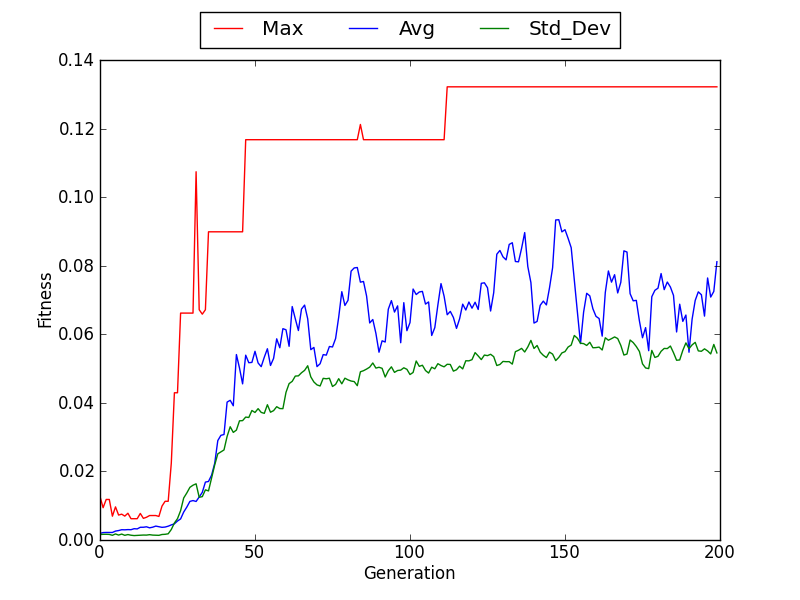
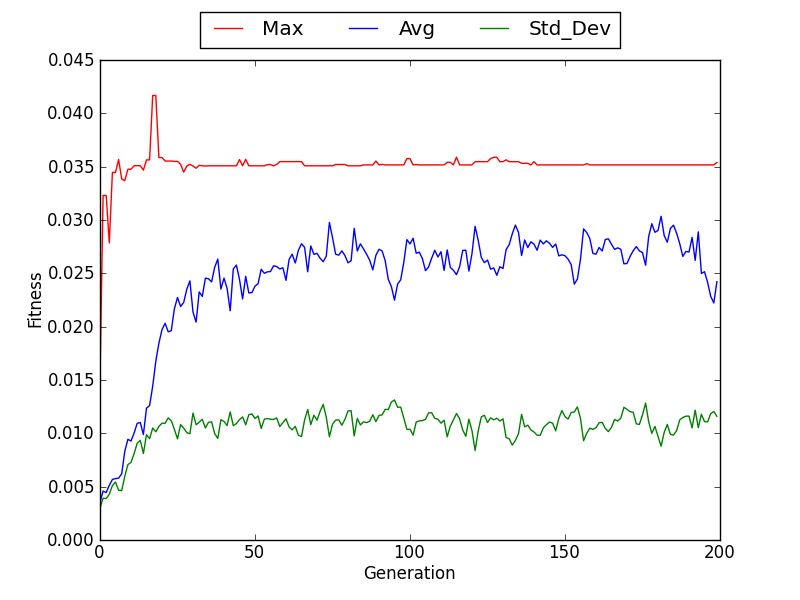
Backup

diff --git a/project2/code/izhikevich.py b/project2/code/izhikevich.py
@@ -23,7 +23,7 @@ param_range = {
 def get_target_data(file_num):
 
     filepath = 'data/izzy-train%s.dat' % file_num
-
+    print filepath
     with open(filepath, 'r') as f:
         return [float(i) for i in f.readline().strip().split(' ')]
 
@@ -37,7 +37,6 @@ class SpikingNeuron(Indevidual):
         # Generate new genotype if not defined
         if value is None:
             binary_helper = '{:0'+str(gene_size)+'b}'
-
             # Create the genotype. A concatonated string of all genes
             value = ''.join([binary_helper.format(random.randint(0, self.max_value)) 
                 for i in range(std_values['num_params'])])
@@ -87,6 +86,7 @@ class SpikingNeuron(Indevidual):
         """
         # Collect all denary values from genotype, categorized by 5 bits interval
         params = [int(self.value[i:i+self.gene_size], 2) for i in range(0, len(self.value), self.gene_size)]
+        
 
         # Need to encode values to fit to given ranges/intervals
         a, b, c, d, k = self.fit_range (params)
@@ -101,8 +101,9 @@ class SpikingNeuron(Indevidual):
 
         for t in range(std_values['timesteps']):
             tmp = v
-            v += ( (k * pow(v, 2.0)) + (5*v) + 140 - u + std_values['I'])/std_values['tau']
-            u += (a/float(std_values['tau'])) * ((b*tmp) - u)
+
+            v += ( (k * v * v) + (5*v) + 140 - u + std_values['I'])/std_values['tau']
+            u += (a * ((b*tmp) - u)) / float(std_values['tau'])
 
             spike_train.append(v)
 
@@ -142,30 +143,30 @@ class SDM(object):
         spike_times = []
         num_spikes = len(train)
 
-        
         i = j = (k - 1) // 2
         while (i < len(train) - j):
             if train[i] > T and train[i] == max(train[i-j:i+j+1]):
                 spike_times.append(i)
-                i += j # Jump to next window or?
+                #i += j # Jump to next window or?
             i += 1
 
         return spike_times
         """
 
-        for i in range(0, num_spikes-k):
+        for i in range(2, num_spikes-2):
             # Move through windows of size k. 
             # Check if a spike fits constraints a, b and c from 2. in comments
-            middle = (k-1)//2 + i # middle index
+            middle = ( k // 2 ) + i # middle index
             if middle > num_spikes:
                 continue
 
-            if train[middle] > T and train[middle] == max(train[i:i+k]):
+            if train[middle] > T and train[middle] == max(train[i:i+middle]):
                 spike_times.append(i)
-                i += k
+                i += middle
 
         return spike_times
         """
+
 
 
     @staticmethod
@@ -188,7 +189,9 @@ class SDM(object):
 
             d_st(T^a,T^b) = 1/N * (sum(|t_i^a − t_i^b|^p, 0, N-1))^1/p
         """
+
         spikes1, spikes2 = SDM.compute_spike_times(train1), SDM.compute_spike_times(train2)
+
 
         if not spikes1:
             return 0
@@ -200,11 +203,12 @@ class SDM(object):
         if penalty:
             tmp += SDM.difference_penalty(spikes1, spikes2, train1)
 
-        distance = math.sqrt(tmp) / N
+        dist = pow(tmp, (1.0/p)) / float(N)
         #print distance
         #print "Target: %s \n Spikes1: %s " % (spikes2, spikes1)
         # print "Target Train (%s): %s \n Train1 (%s): %s " % (len(train2), train2, len(train1), train1)
-        return 1.0/distance
+
+        return 1.0/dist
 
 
     @staticmethod
@@ -221,7 +225,6 @@ class SDM(object):
 
         N = min(len(spikes1), len(spikes2))
 
-
         if N < 2:
             return 0
 
@@ -231,7 +234,12 @@ class SDM(object):
         if penalty:
             tmp += SDM.difference_penalty(spikes1, spikes2, train1)
 
-        return 1.0/(pow(tmp, (1.0/p))/float((1.0/(N-1))))
+        dist = (pow(tmp, (1.0/p))/float((1.0/(N-1))))
+
+        if dist == 0.0:
+            return 1.0
+
+        return 1.0/dist
 
 
     @staticmethod
@@ -271,9 +279,10 @@ class SpikeMutation(Mutation):
 
         #print "New Gene %s " % new_gene
         g1.value = (g1.value[:s] + new_gene + g1.value[s+g1.gene_size:])
+        g1.phenotype = None
 
 
-def create_data(gene_size, metric_fn, target, penalty = True):
+def create_data(gene_size, metric_fn, target, penalty = False):
     """
         A closure solution to pass arguments in the inner function.
         This way we can initiate the Indevidual subclass with 
@@ -290,9 +299,9 @@ def create_data(gene_size, metric_fn, target, penalty = True):
 class SpikingNeuronPlotter(Plotter):
 
     def update (self, generation, population):
-
-        self.population = population.children[:] + population.adults[:]
-        self.population.sort(key=attrgetter('fitness'), reverse=True)
+        pop = population.children[:] + population.adults[:]
+        pop.sort(key=attrgetter('fitness'), reverse=True)
+        self.best = copy.deepcopy(pop[0])
 
 
         super(SpikingNeuronPlotter, self).update(generation, population)
@@ -301,7 +310,7 @@ class SpikingNeuronPlotter(Plotter):
         fig = plt.figure()
         ax = fig.add_subplot(111)
 
-        best_result = self.population[0]
+        best_result = self.best
         spike_train = best_result.phenotype
 
 
@@ -312,7 +321,7 @@ class SpikingNeuronPlotter(Plotter):
 
         print "Best result: a: %s, d: %s, c: %s, d: %s, k: %s" % (a, b, c, d, k)
 
-        x_axis = list(range(len(spike_train)));
+        x_axis = list(range(len(spike_train)))
         ax.plot(list(range(len(spike_train))), spike_train, 'r', label="Act") 
         plt.xlabel('Time(ms)')
         plt.ylabel('Activation-Level(mV)')
@@ -327,21 +336,22 @@ std_values = {
     'output_file': 'spiking',
     'do_plot': True,
     'pop_size':  100,
-    'mutation_probability': 0.25,
+    'mutation_probability': 0.15,
     'birth_probability': 1.0,
     'gene_size': 7, # The bit size for each gene (parameter)
     'generations': 200,
     'protocol': 'FullReplacement',
     'mechanism': 'Tournament',
     'reproduction': 'BinaryOnePointCrossover',
-    'elitism': 0.04,
+    'elitism': 0.05,
     'truncation': 0.05,
     'tau': 10.0,
     'I': 10.0,
     'timesteps': 1000,
     'spike_threshold': 35, # mV (milli Volts)
     'num_params': 5, # The number of parameters: a, b, c, d, k
-    'metric_fn': SDM.spike_time_distance_metric # The number of parameters: a, b, c, d, k
+    'metric_fn': SDM.spike_time_distance_metric, # The number of parameters: a, b, c, d, k
+    'penalty': True # The number of parameters: a, b, c, d, k
 }
 
 
@@ -469,15 +479,13 @@ if __name__ == "__main__":
 
 
     args = parser.parse_args()
-    output_size = args.pop_size # - int(args.pop_size * 0.05)
+    output_size = args.pop_size - int(args.pop_size * 0.05)
 
     print args
 
+    target = get_target_data(1)
 
-    target_spikes = get_target_data()
-    target = target_spikes[0];
-
-    create_objects = create_data(args.gene_size, args.metric_fn, target)
+    create_objects = create_data(args.gene_size, args.metric_fn, target, std_values['penalty'])
     population = Population(args.pop_size, create_objects)
 
     adult_selection = SelectionStrategy(output_size, str_to_class(args.protocol))

diff --git a/project2/code/lib/EA.py b/project2/code/lib/EA.py
@@ -52,9 +52,9 @@ class EA:
             return
 
         parents = self.population.parents[:]
-        for i in range(0, len(parents)-1):
+        for i in range(0, len(parents)):
             if i % 2 == 1:
-                child1, child2 = parents[i-1], parents[i]
+                child1, child2 = copy.deepcopy(parents[i-1]), copy.deepcopy(parents[i])
 
                 if self.reproduction.birth_probability > random.random():
                     # print "Parents: \n %s \n %s" % (child1.value, child2.value)
@@ -62,8 +62,8 @@ class EA:
                     # print "Kids: \n %s \n %s" % (child1.value, child2.value)
 
 
-                self.population.children.append(copy.deepcopy(child1))
-                self.population.children.append(copy.deepcopy(child2))
+                self.population.children.append(child1)
+                self.population.children.append(child2)
 
 
     def mutate(self):
@@ -110,15 +110,16 @@ class EA:
             # Adult selection
             self.adult_select()
 
+            # print "PRE ADULTS"
             # Parent selection
             self.parent_select()
-
 
             # Now the parents-attribute in the Population should
             # be filled and ready for reproduction.
 
             # Reproduction
             self.birth()
+
             self.mutate()
 
             # Intitiate Jean-Luc Picard; The Next Generation

diff --git a/project2/code/lib/Selection.py b/project2/code/lib/Selection.py
@@ -183,6 +183,7 @@ class SelectionStrategy(object):
 
         # Check if we have protocol defined for the strategy
         if self.protocol_name is not None:
+            orig_size = len(population.children)
             if self.protocol is None:
                 self.protocol = self.protocol_name(self.output_size, population)
 
@@ -190,7 +191,7 @@ class SelectionStrategy(object):
             self.protocol.do()
 
             # Need to check if we have enough indeviduals
-            if len(population.adults) < self.size:
+            if len(population.adults) < orig_size:
                 population.adults.sort(key=attrgetter('fitness_value'), reverse=True)
                 for i in range(self.size - len(population.adults)):
                     population.adults.append(copy.deepcopy(population.adults[i % len(population.adults)]))
@@ -212,7 +213,10 @@ class SelectionStrategy(object):
                 E = self.elitism
                 if E < 1: # a fraction
                     E = int(len(new_population)*E)
-                population.children.extend(copy.deepcopy(new_population[:E]))
+
+                #for i in range(E, len(new_population)):
+                    population.children.extend(copy.deepcopy(new_population[:E]))
+
                 self.size -= E
 
             # Truncation - Removal of parents as parents. 

diff --git a/project2/docs/deliverables_2.tex b/project2/docs/deliverables_2.tex
@@ -28,6 +28,7 @@ std_values = {
 \end{lstlisting}
 
 \subsection{Spike Time Distance Metric}
+Best result: a: 0.0417401574803, d: 0.169842519685, c: -50, d: 8.98661417323, k: 0.0489763779528
 
 \begin{table}[H]
 	\begin{center}
@@ -36,8 +37,8 @@ std_values = {
 	    \hline
 	    
 	  	\textbf{Target Spike Trains} & \textbf{$a$} & \textbf{$b$} & \textbf{$c$} & \textbf{$d$} & \textbf{$k$} & \textbf{Plots} \\ \hline
-	  	\textbf{Spike-Train \#}1 & 0.1 & 0.1 & 0.1 & 0.1 & 0.1 & Figur 1, Figur 2 \\ \hline
-	  	\textbf{Spike-Train \#2} & 0.1 & 0.1 & 0.1 & 0.1 & 0.1 & Figur 1, Figur 2 \\ \hline
+	  	\textbf{Spike-Train \#}1 & 0.0276377952756 & 0.0533858267717 & -34 & 5.7905511811 & 0.0411811023622 & Figur 1, Figur 2 \\ \hline
+	  	\textbf{Spike-Train \#2} & 0.0417401574803 & 0.169842519685 & -50 & 8.98661417323 & 0.0489763779528 & Figur 1, Figur 2 \\ \hline
 	  	\textbf{Spike-Train \#3} & 0.1 & 0.1 & 0.1 & 0.1 & 0.1 & Figur 1, Figur 2 \\ \hline
 	  	\textbf{Spike-Train \#4} & 0.1 & 0.1 & 0.1 & 0.1 & 0.1 & Figur 1, Figur 2 \\  \hline
 	  	
